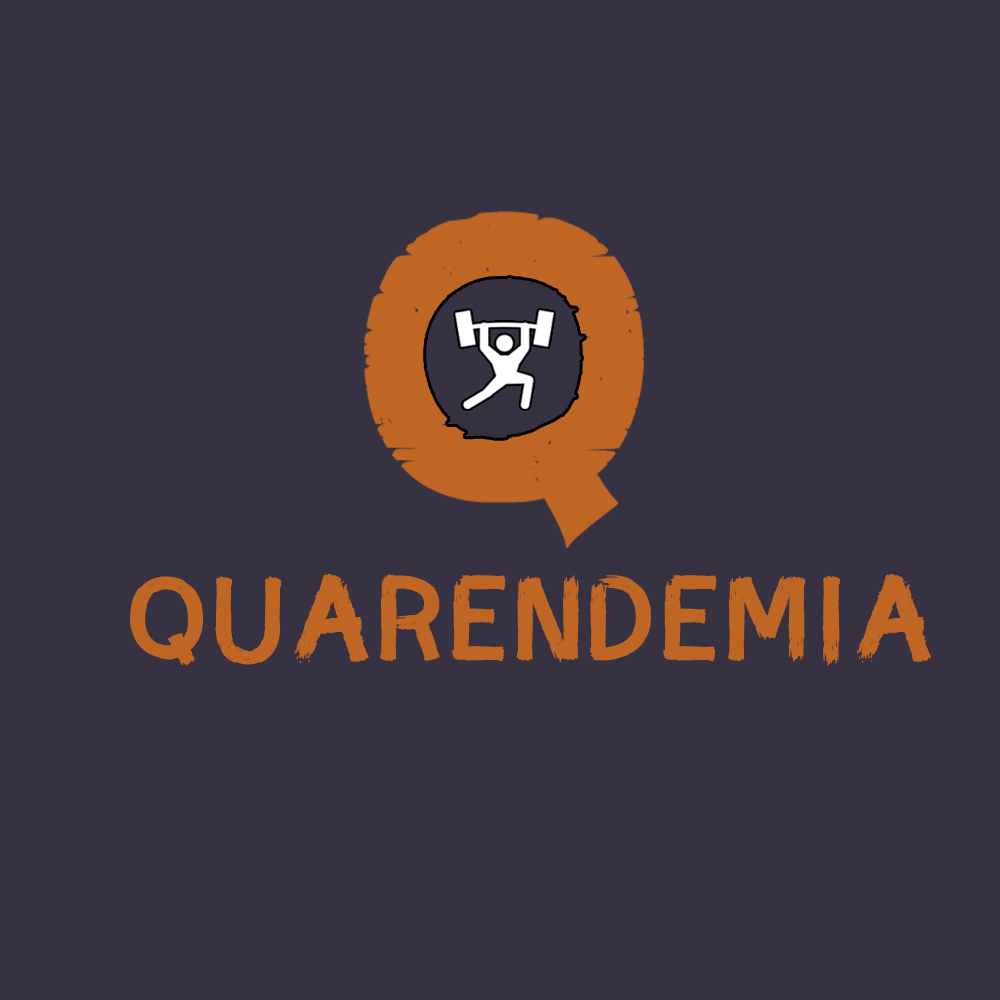
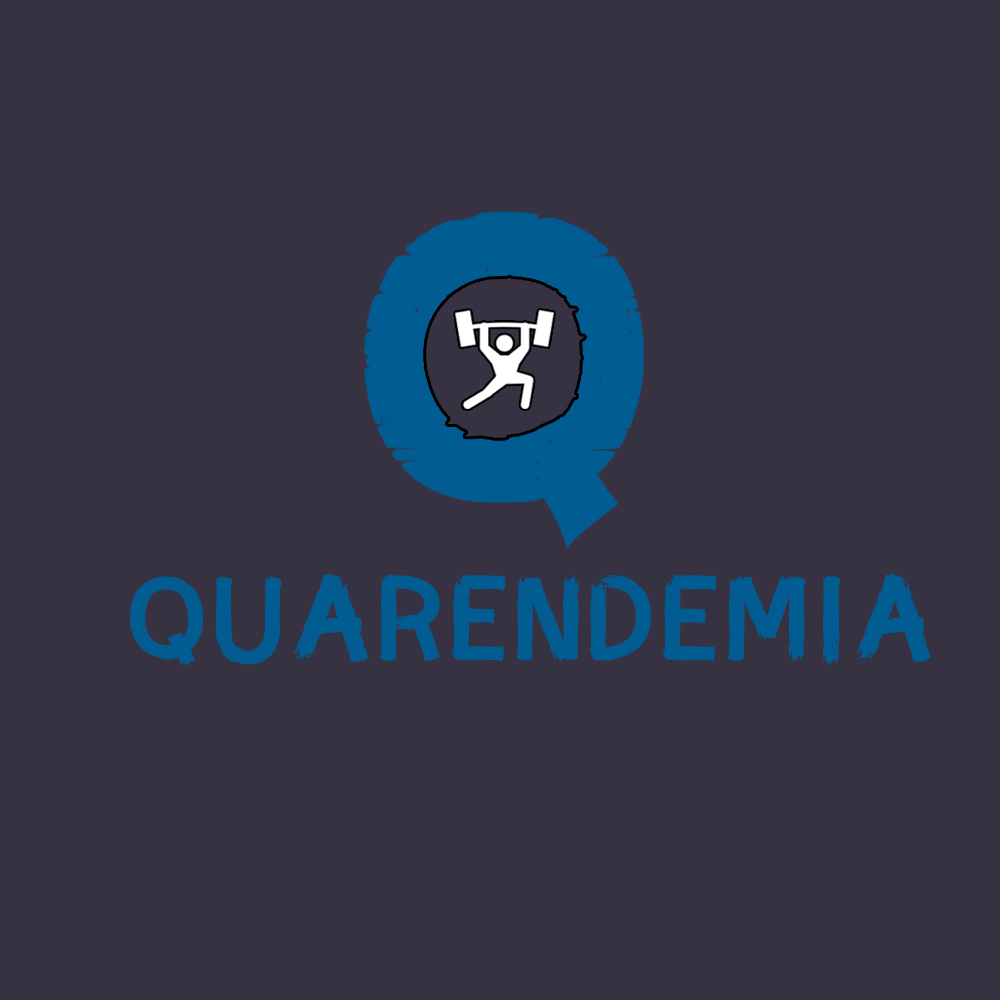
Atualização de cores

Changed region(s): [[0.124, 0.186, 0.93, 0.682]]

diff --git a/docs/docIdentidadeVis.md b/docs/docIdentidadeVis.md
@@ -5,7 +5,7 @@
 
 A marca Quarendemia se apresenta de forma simples. O logotipo principal se apresenta de forma imponente, é usado o Q como simbolo para representar o "Quarendemia" de forma forte para ter alusão ao uso da força na Academia.
  
-A cor roxa está do fundo é usada por ser uma cor mais confortável aos olhos do usuário do sistema que passará grande parte do dia com o sistema aberto. Já a cor laranja é usada para o contraste e harmonia com o roxo para ficar algo bastante tranquilo.
+A cor roxa está do fundo é usada por ser uma cor mais confortável aos olhos do usuário do sistema que passará grande parte do dia com o sistema aberto. Já a cor azul é usada para o contraste e harmonia com o roxo para ficar algo bastante tranquilo a vista do usuário.
 
 
 ## Logotipo
@@ -22,7 +22,7 @@ A cor roxa está do fundo é usada por ser uma cor mais confortável aos olhos d
 ![Modelo Relacional](imagens/roxo.jpg) &nbsp; &nbsp; &nbsp; &nbsp; **A cor Roxo usado tem o Hexa #373242 e composta pelo RGB: 55, 50, 66.**
 
 <br /><br />
-![Modelo Relacional](imagens/laranja.jpg) &nbsp; &nbsp; &nbsp; &nbsp; **A cor Laranja usada tem o Hexa #373242 e composta pelo RGB: 191, 102, 36.**
+![Modelo Relacional](imagens/azul.jpg) &nbsp; &nbsp; &nbsp; &nbsp; **A cor Azul usada tem o Hexa #015c92 e composta pelo RGB: 1, 92, 146.**
 
 <br /><br />
 
